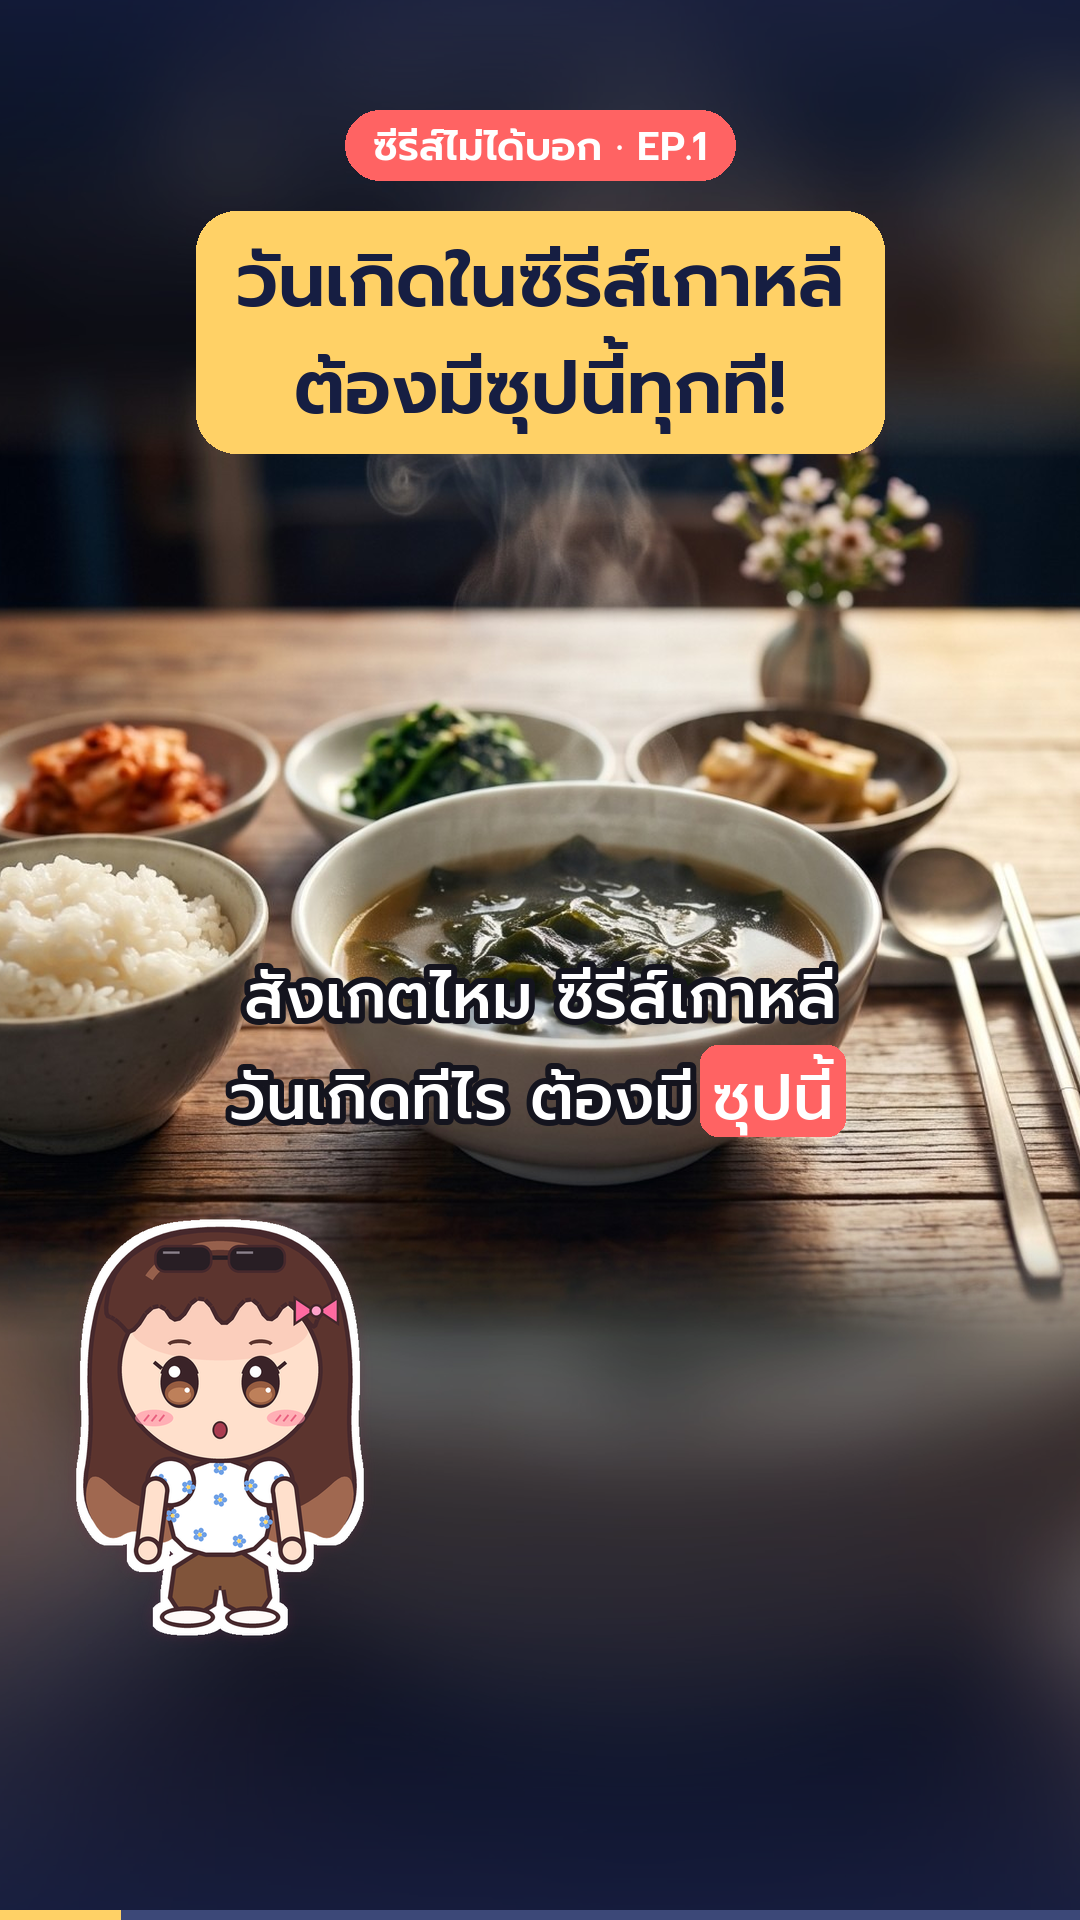
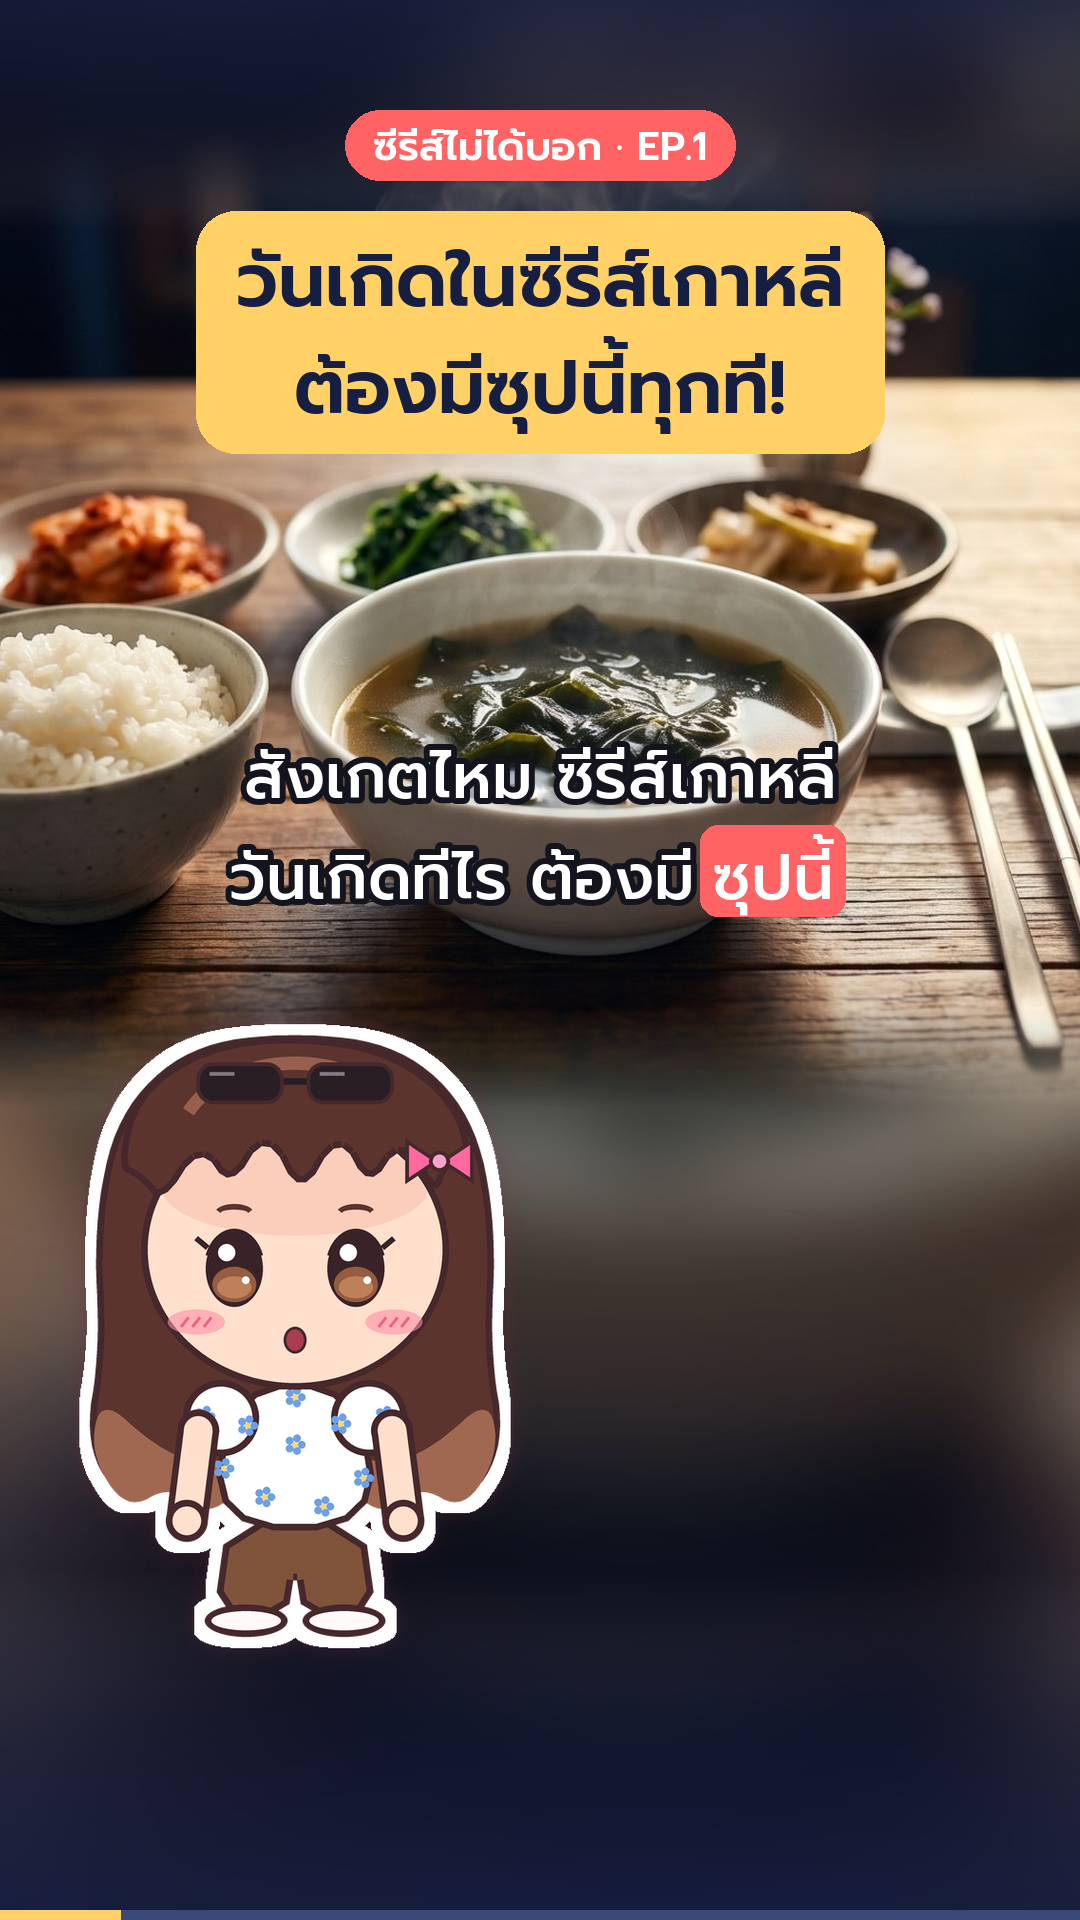
Mock frames: bigger mascot, lift backgrounds above it
Claude-Session: https://claude.ai/code/session_01RZMEmkS7RESx1oE558yDYc

diff --git a/office/weeks/2026-W47/make_mockframes.py b/office/weeks/2026-W47/make_mockframes.py
@@ -7,6 +7,7 @@ HERE = os.path.dirname(os.path.abspath(__file__))
 F = HERE + "/../../assets/fonts/"; KO = "/usr/share/fonts/truetype/wqy/wqy-zenhei.ttc"
 def font(n, s): return ImageFont.truetype(F + n, s, layout_engine=ImageFont.Layout.RAQM)
 W, H = 1080, 1920
+SHIFT = 230
 NAVY = (22, 30, 66); YEL = (255, 209, 102); CORAL = (255, 99, 99)
 
 SCENES = [  # bg, crop zoom, focus y, pose, face, label, korean, kofirst, subtitle
@@ -80,7 +81,12 @@ def frame(i, sc):
     if bg and not os.path.exists(f"{HERE}/story1-bg/{bg}.jpg"):
         bg = {"bg1": "bg3"}.get(bg)   # fallback until the file arrives
     if bg:
-        img = cover(f"{HERE}/story1-bg/{bg}.jpg", zoom, fy).convert("RGBA")
+        src = cover(f"{HERE}/story1-bg/{bg}.jpg", zoom, fy)
+        img = Image.new("RGBA", (W, H), NAVY + (255,))
+        img.paste(src.crop((0, SHIFT, W, H)), (0, 0))   # lift subject above the mascot
+        fill = src.crop((0, H - 300, W, H)).resize((W, SHIFT + 120)).filter(ImageFilter.GaussianBlur(30))
+        fm = Image.linear_gradient("L").resize((W, SHIFT + 120)).point(lambda v: min(255, v * 3))
+        img.paste(fill, (0, H - SHIFT - 120), fm)
     else:
         img = Image.new("RGBA", (W, H), NAVY + (255,))
     grad(img, True, 420, 190); grad(img, False, 760, 235)
@@ -94,9 +100,9 @@ def frame(i, sc):
     d.text((W/2-tw/2, 116), tag, font=ft, fill="white")
     pill(d, label, 225, ko, kofirst)
     # mascot bottom-left (keeps clear of TikTok buttons on the right and caption at bottom)
-    m = draw_nagaji(pose=pose, face=face, height=520)
-    img.alpha_composite(m, (30, H - 230 - m.height))
-    subtitle(d, sub, 1150)
+    m = draw_nagaji(pose=pose, face=face, height=780)
+    img.alpha_composite(m, (10, H - 190 - m.height))
+    subtitle(d, sub, 930)
     d.rectangle([0, H-10, W, H], fill=(60, 72, 120)); d.rectangle([0, H-10, W*(i+1)/len(SCENES), H], fill=YEL)
     return img.convert("RGB")
 
